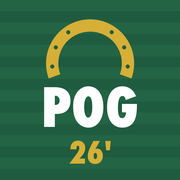
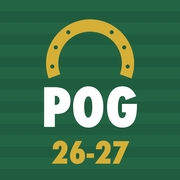
タイトルとアイコンを POG26-27' に変更

Changed region(s): [[0.2778, 0.7778, 0.7222, 0.9167]]

diff --git a/index.html b/index.html
@@ -3,10 +3,10 @@
 <head>
 <meta charset="utf-8">
 <meta name="viewport" content="width=device-width, initial-scale=1, viewport-fit=cover">
-<title>POG26'</title>
+<title>POG26-27'</title>
 <!-- iPhoneのホーム画面用（名前とアイコン） -->
 <link rel="apple-touch-icon" href="apple-touch-icon.png">
-<meta name="apple-mobile-web-app-title" content="POG26'">
+<meta name="apple-mobile-web-app-title" content="POG26-27'">
 <meta name="theme-color" content="#1f5c3f">
 <link rel="manifest" href="manifest.webmanifest">
 <link rel="icon" href="favicon.png">
